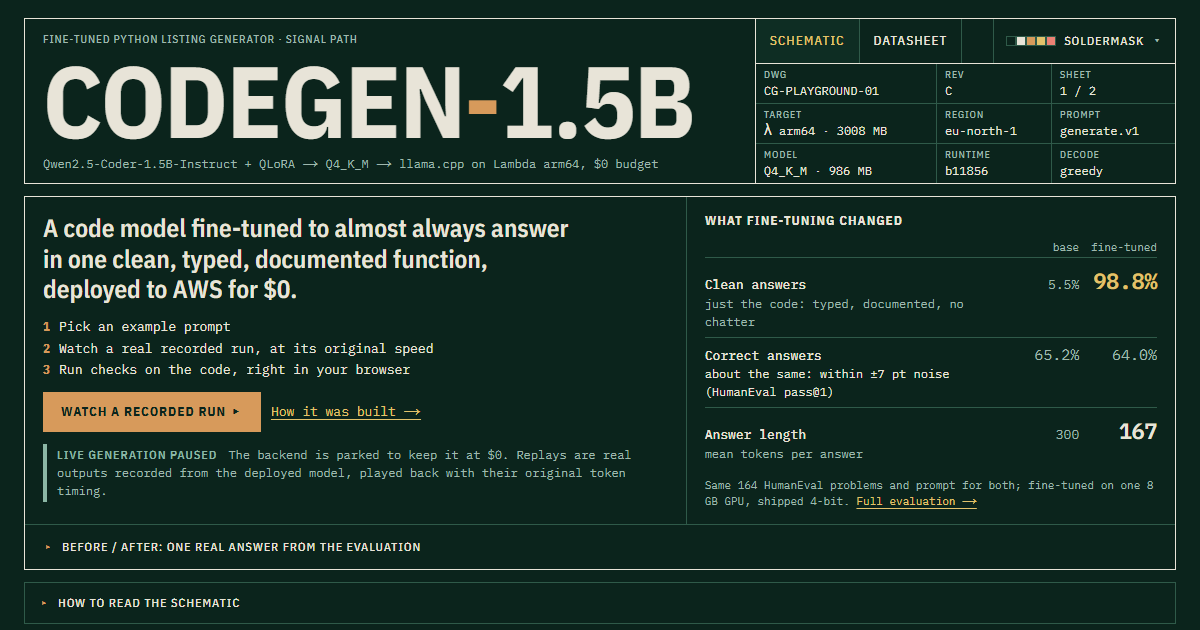
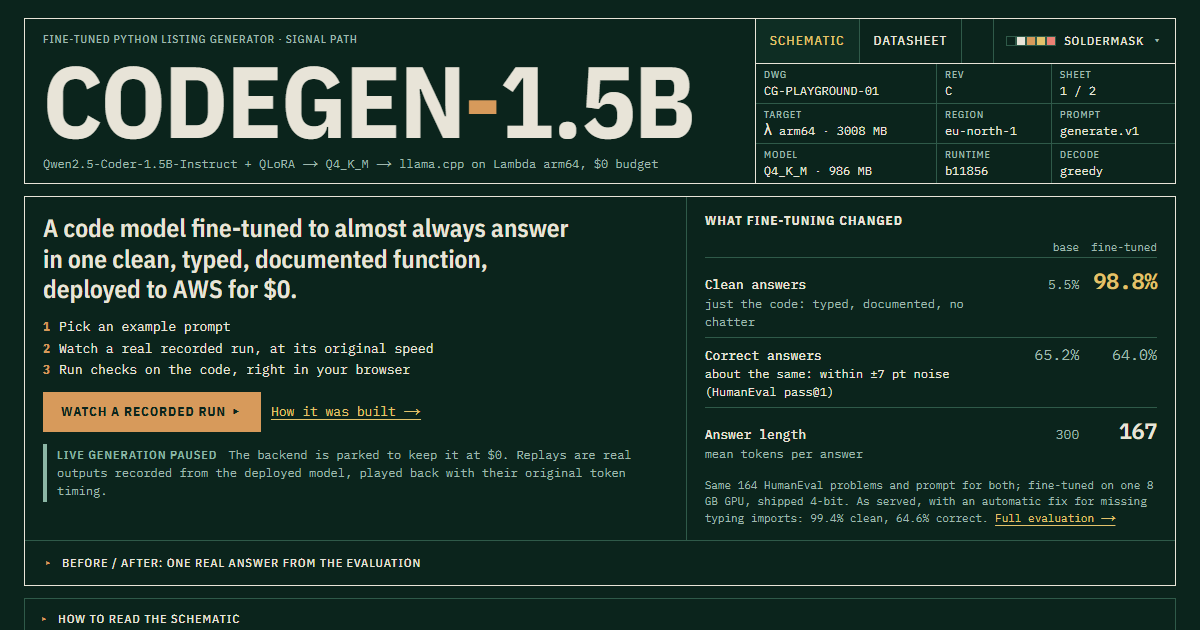
Try it live: opt-in live run next to the replay button; replay stays the default
- The page opens in replay mode even with the backend on, and a first visit
  plays a recording; a live request only happens when the visitor presses Try it
  live. The button appears only while status.json says live, so this changes
  nothing while the backend is paused.
- At 0 runs left (or once the shared budget is spent) the button becomes the
  reset time, next to the replay button.
- Tests: live opt-in sends exactly one request, no button while paused, axe on
  the live-state intro, the import fix shown and used by the test bench, first
  visit with the backend on plays a recording. live.spec uses the button.

Changed region(s): [[0.0308, 0.8444, 0.9867, 0.9952], [0.5858, 0.7841, 0.9558, 0.8444]]

diff --git a/frontend/tests/e2e/livemock.spec.ts b/frontend/tests/e2e/livemock.spec.ts
@@ -1,3 +1,4 @@
+import AxeBuilder from "@axe-core/playwright";
 import { readFileSync } from "node:fs";
 import { expect, test, type Page, type Route } from "./fixtures";
 
@@ -20,7 +21,9 @@ async function live(page: Page, generate: (r: Route) => unknown) {
   await page.route("**/status.json", (r) => r.fulfill({ contentType: "application/json", body: '{"live": true, "since": "x", "note": "live"}' }));
   await page.route("**/generate", (r) => (r.request().method() === "OPTIONS" ? r.fulfill({ status: 204, headers: cors(r) }) : generate(r)));
   await page.goto("/");
-  await expect(page.getByRole("button", { name: "Live", exact: true })).toHaveAttribute("aria-pressed", "true");
+  // replay stays the default even with the backend on; live is the visitor's choice
+  await expect(page.getByRole("button", { name: "Replay", exact: true })).toHaveAttribute("aria-pressed", "true");
+  await page.getByRole("button", { name: "Live", exact: true }).click();
 }
 const run = (page: Page) => page.locator("#controls").getByRole("button", { name: "Run ▸", exact: true });
 
@@ -67,9 +70,61 @@ test("quota used up: Run is replaced in place by the reset time and a replay but
   await expect(blocked).toBeInViewport();
   await expect(run(page)).toHaveCount(0);
   await expect(page.locator(".banner[role=alert]")).toHaveCount(0);
-  // still blocked after a reload (the count is remembered for the UTC day)
+  // the intro's "Try it live" becomes the same reset time, next to its replay button
+  await expect(page.locator(".intro")).toContainText(/No live runs left today · resets in/);
+  await expect(page.getByRole("button", { name: "Try it live ▸" })).toHaveCount(0);
+  // still blocked after a reload (the count is remembered for the UTC day); the page reopens in replay mode, so the
+  // reset time stands where "Try it live" was, next to the intro's replay button
   await page.reload();
-  await expect(page.locator("#controls .blocked")).toBeVisible();
-  await page.locator("#controls .blocked").getByRole("button", { name: "Watch a recorded run ▸" }).click();
+  await expect(page.locator(".intro")).toContainText(/No live runs left today · resets in/);
+  await expect(page.getByRole("button", { name: "Try it live ▸" })).toHaveCount(0);
+  await page.locator(".intro").getByRole("button", { name: "Watch a recorded run ▸" }).click();
   await expect(page.getByLabel("Generated code")).toContainText("def fibonacci", { timeout: 15_000 });
+});
+
+test("Try it live: replay stays the default, the button sends one real request", async ({ page }) => {
+  let calls = 0;
+  await page.route("**/status.json", (r) => r.fulfill({ contentType: "application/json", body: '{"live": true, "since": "x", "note": "live"}' }));
+  await page.route("**/generate", (r) => (r.request().method() === "OPTIONS" ? r.fulfill({ status: 204, headers: cors(r) }) : (calls++, stream(r))));
+  await page.goto("/");
+  await expect(page.getByRole("button", { name: "Replay", exact: true })).toHaveAttribute("aria-pressed", "true");
+  await expect(page.getByText("Live generation is on")).toBeVisible();
+  for (const theme of ["soldermask", "datasheet"]) {  // the live-only intro controls, audited in a dark and the light theme
+    await page.evaluate((t) => document.documentElement.setAttribute("data-theme", t), theme);
+    const r = await new AxeBuilder({ page }).include(".intro").withTags(["wcag2a", "wcag2aa", "wcag21aa", "wcag22aa"]).analyze();
+    expect(r.violations.map((v) => `${theme} ${v.id}: ${v.nodes[0]?.target}`)).toEqual([]);
+  }
+  await page.waitForTimeout(500);
+  expect(calls).toBe(0); // nothing live happens by itself
+  await page.getByRole("button", { name: "Try it live ▸" }).click();
+  await expect(page.getByLabel("Generated code")).toContainText("def fibonacci", { timeout: 15_000 });
+  await expect(page.getByText("clean EOS")).toBeVisible({ timeout: 15_000 });
+  expect(calls).toBe(1);
+  await expect(page.getByRole("button", { name: "Live", exact: true })).toHaveAttribute("aria-pressed", "true");
+});
+
+test("paused backend: no Try it live button at all", async ({ page }) => {
+  await page.route("**/status.json", (r) => r.fulfill({ contentType: "application/json", body: '{"live": false, "since": "x", "note": "paused"}' }));
+  await page.goto("/");
+  await expect(page.getByText("Live generation paused")).toBeVisible();
+  await expect(page.getByRole("button", { name: "Try it live ▸" })).toHaveCount(0);
+});
+
+test("a typing name used but not imported: the import is added, marked, and used by the test bench", async ({ page }, info) => {
+  test.skip(info.project.name !== "desktop");
+  const answer = "```python\nfrom typing import List\n\n\ndef transpose(matrix: Tuple[Tuple[int, ...], ...]) -> List[Tuple[int, ...]]:\n"
+    + "    \"\"\"Transpose a matrix.\"\"\"\n    return list(zip(*matrix))\n```";
+  const sse = answer.split(/(?<=\n)/).map((t) => `event: token\ndata: ${JSON.stringify({ t })}\n\n`).join("")
+    + `event: done\ndata: ${JSON.stringify({ finish_reason: "stop", tokens: 40, prompt_tokens: 20, tok_s: 15, ttft_s: 0.4, prompt_version: "generate.v1", remaining: 4 })}\n\n`;
+  await live(page, (r) => r.fulfill({ status: 200, headers: { ...cors(r), "content-type": "text/event-stream" }, body: sse }));
+  await page.locator("#spec").fill("Write a function that transposes a matrix given as a tuple of tuples.");
+  await run(page).click();
+  const code = page.getByLabel("Generated code");
+  await expect(code).toContainText("from typing import List, Tuple", { timeout: 15_000 });
+  await expect(page.locator(".listing-foot")).toContainText("+ L1 import added after generation: Tuple used in a type hint but not imported");
+  await expect(page.locator(".code .gutter")).toContainText("+1");
+  // the test bench runs the served code: it defines transpose instead of failing with NameError
+  await page.getByRole("button", { name: "Run code ▸" }).click();
+  await expect(page.locator(".bench-sum")).not.toContainText("NameError", { timeout: 90_000 });
+  await expect(page.locator(".bench-sum")).toContainText(/transpose/, { timeout: 90_000 });
 });

diff --git a/frontend/src/components/Intro.tsx b/frontend/src/components/Intro.tsx
@@ -1,6 +1,6 @@
 import Link from "next/link";
 import { COMPARE } from "@/data/compare";
-import { EVAL } from "@/data/facts";
+import { BUDGET, EVAL } from "@/data/facts";
 import type { SiteStatus } from "@/lib/status";
 
 // The on-ramp: what this is, what to do, and the result, in plain words. The schematic below is the detailed view.
@@ -13,9 +13,19 @@ const FAILURE: Record<string, string> = {
   missing_return_hint: "no return type",
 };
 
-type Props = { status: SiteStatus; playing: boolean; onWatch: () => void };
+type Props = {
+  status: SiteStatus;
+  playing: boolean;
+  onWatch: () => void;
+  /** backend is on (status.json live): offer the opt-in live run */
+  live: boolean;
+  /** live cannot succeed today: shown instead of "Try it live", next to the replay button */
+  liveBlocked: string | null;
+  remaining: number | null;
+  onTryLive: () => void;
+};
 
-export function Intro({ status, playing, onWatch }: Props) {
+export function Intro({ status, playing, onWatch, live, liveBlocked, remaining, onTryLive }: Props) {
   return (
     <section className="intro" aria-labelledby="intro-h">
       <div className="intro-main">
@@ -32,8 +42,18 @@ export function Intro({ status, playing, onWatch }: Props) {
           <button type="button" className="btn-run silk" onClick={onWatch}>
             {playing ? "Playing · see output ↓" : "Watch a recorded run ▸"}
           </button>
+          {live && (liveBlocked && !playing
+            ? <span className="tp intro-blocked" role="status">{liveBlocked}</span>
+            : <button type="button" className="btn-ghost btn-live silk" onClick={onTryLive} disabled={playing}>Try it live ▸</button>)}
           <Link href="/notes/">How it was built →</Link>
         </div>
+        {live && !liveBlocked && (
+          <p className="intro-status">
+            <strong className="silk au">Live generation is on</strong>{" "}
+            Try it live sends the prompt to the real model on AWS Lambda
+            ({remaining ?? BUDGET.anonPerIp} of {BUDGET.anonPerIp} live runs left today; a cold start can add 5–10 s). Replays cost nothing.
+          </p>
+        )}
         {status.live === false && (
           <p className="intro-status" role="status">
             <strong className="silk sig2">{status.note === "circuit breaker" ? "Paused by circuit breaker" : "Live generation paused"}</strong>{" "}
@@ -53,11 +73,11 @@ export function Intro({ status, playing, onWatch }: Props) {
           <tbody>
             <tr>
               <th scope="row">Clean answers<small>just the code: typed, documented, no chatter</small></th>
-              <td>{EVAL.base.formatClean}%</td><td className="au big">{EVAL.formatClean}%</td>
+              <td>{EVAL.base.formatClean}%</td><td className="au big">{EVAL.model.formatClean}%</td>
             </tr>
             <tr className="flat">
               <th scope="row">Correct answers<small className="said">about the same: within ±{EVAL.noisePt} pt noise (HumanEval pass@1)</small></th>
-              <td>{EVAL.base.humaneval}%</td><td>{EVAL.humaneval.toFixed(1)}%</td>
+              <td>{EVAL.base.humaneval}%</td><td>{EVAL.model.humaneval.toFixed(1)}%</td>
             </tr>
             <tr>
               <th scope="row">Answer length<small>mean tokens per answer</small></th>
@@ -66,7 +86,8 @@ export function Intro({ status, playing, onWatch }: Props) {
           </tbody>
         </table>
         <p className="dim intro-fine">
-          Same {EVAL.tasks} HumanEval problems and prompt for both; fine-tuned on one 8 GB GPU, shipped 4-bit.{" "}
+          Same {EVAL.tasks} HumanEval problems and prompt for both; fine-tuned on one 8 GB GPU, shipped 4-bit. As served,
+          with an automatic fix for missing typing imports: {EVAL.formatClean}% clean, {EVAL.humaneval}% correct.{" "}
           <Link href="/notes/#eval">Full evaluation →</Link>
         </p>
       </div>

diff --git a/frontend/src/pages/index.tsx b/frontend/src/pages/index.tsx
@@ -21,7 +21,9 @@ const QUOTA_CODES = new Set(["daily_limit", "daily_capacity"]);
 export default function Playground() {
   const [run, dispatch] = useReducer(runReducer, initialRun);
   const [status, setStatus] = useState<SiteStatus>(UNKNOWN);
-  const [mode, setMode] = useState<Mode>("live");
+  // Replay is the default experience; a live request is always the visitor's explicit choice ("Try it live").
+  const [mode, setMode] = useState<Mode>("replay");
+  const [statusLoaded, setStatusLoaded] = useState(false);
   const [prompt, setPrompt] = useState(EXAMPLES[0]);
   const [replays, setReplays] = useState<ReplayIndexEntry[]>([]);
   const [replayId, setReplayId] = useState<string | null>(null);
@@ -41,6 +43,7 @@ export default function Playground() {
     setRemaining(loadRemaining());
     fetchStatus().then((s) => {
       setStatus(s);
+      setStatusLoaded(true);
       if (s.live === false) {
         // The live controls are about to be replaced; don't drop a keyboard user's focus on <body>.
         const hadFocus = document.getElementById("controls")?.contains(document.activeElement);
@@ -139,15 +142,15 @@ export default function Playground() {
     };
   }, [replayId, record]);
 
-  // First visit only: play the selected recording once, unasked, when the page settles in replay mode. Never a live
-  // run (that spends quota), never with reduced motion, never if the visitor has already started something.
+  // First visit only: play the selected recording once, unasked, once the backend status is known (live or not).
+  // Never a live run (that spends quota), never with reduced motion, never if the visitor has already started something.
   const autoplayed = useRef(false);
   useEffect(() => {
-    if (autoplayed.current || mode !== "replay" || status.live !== false || !replayId || run.phase !== "idle") return;
+    if (autoplayed.current || !statusLoaded || mode !== "replay" || !replayId || run.phase !== "idle") return;
     autoplayed.current = true;
     if (window.matchMedia("(prefers-reduced-motion: reduce)").matches || !claimFirstVisit()) return;
     runReplay();
-  }, [mode, status.live, replayId, run.phase, runReplay]);
+  }, [statusLoaded, mode, replayId, run.phase, runReplay]);
 
   // Bring the output into view if it is below the fold: the readouts on the wide layout, the listing once the
   // layout stacks (there the readouts are far from the code that is moving).
@@ -174,6 +177,14 @@ export default function Playground() {
     : lastCode === "daily_capacity" ? `Today's shared live budget is spent · resets in ${fmtDuration(secondsToUtcMidnight(now))}`
     : null;
 
+  // The opt-in: a real request with the prompt in U1, spending one of the visitor's live runs.
+  const tryLive = () => {
+    if (active(run) || liveBlocked) return;
+    setMode("live");
+    runLive();
+    showOutput();
+  };
+
   const onRun = () => (mode === "live" ? runLive() : runReplay());
   const retryIn = retryAt !== null ? Math.max(0, Math.ceil((retryAt - now) / 1000)) : null;
   const err: UiError | null = run.phase === "error" ? run.error : null;
@@ -186,7 +197,8 @@ export default function Playground() {
       <main className="page">
         <Masthead page="schematic" />
 
-        <Intro status={status} playing={active(run)} onWatch={watch} />
+        <Intro status={status} playing={active(run)} onWatch={watch}
+          live={status.live === true} liveBlocked={liveBlocked} remaining={remaining} onTryLive={tryLive} />
 
         {err && !QUOTA_CODES.has(err.code) && (
           <div className="banner" role="alert">

diff --git a/frontend/tests/e2e/live.spec.ts b/frontend/tests/e2e/live.spec.ts
@@ -9,8 +9,9 @@ test("live run from the deployed origin: streams, or shows a coded refusal", asy
   const errors: string[] = [];
   page.on("console", (m) => { if (m.type() === "error" && !/status of 429/.test(m.text())) errors.push(m.text()); });
   await page.goto("/");
-  await expect(page.getByRole("button", { name: "Live", exact: true })).toHaveAttribute("aria-pressed", "true");
-  await page.getByRole("button", { name: "Run ▸" }).click();
+  // replay is the default; the live request is the visitor's opt-in
+  await expect(page.getByRole("button", { name: "Replay", exact: true })).toHaveAttribute("aria-pressed", "true");
+  await page.getByRole("button", { name: "Try it live ▸" }).click();
   const code = page.getByLabel("Generated code");
   const refusal = page.locator(".banner[role=alert]");
   await expect(code.or(refusal)).toBeVisible({ timeout: 30_000 });

diff --git a/frontend/tests/e2e/intro.spec.ts b/frontend/tests/e2e/intro.spec.ts
@@ -125,3 +125,14 @@ test("link preview: description, Open Graph card and its image", async ({ page, 
   expect(r.status()).toBe(200);
   expect(r.headers()["content-type"]).toBe("image/png");
 });
+
+test("first visit with the backend on: a recording plays, nothing is sent live", async ({ page }, info) => {
+  test.skip(info.project.name !== "desktop");
+  let live = 0;
+  await page.route("**/status.json", (r) => r.fulfill({ contentType: "application/json", body: '{"live": true, "since": "x", "note": "live"}' }));
+  await page.route("**/generate", (r) => { live++; return r.abort(); });
+  await page.goto("/");
+  await expect(page.getByLabel("Generated code")).toContainText("def fibonacci", { timeout: 15_000 });
+  await expect(page.getByText("Recorded", { exact: false }).first()).toBeVisible();
+  expect(live).toBe(0);
+});

diff --git a/frontend/src/styles/globals.css b/frontend/src/styles/globals.css
@@ -298,3 +298,5 @@ kbd { font-family: inherit; border: 1px solid var(--line); padding: 0 4px; font-
 .runrow.blocked { gap: 8px 14px; }
 .runrow.blocked > span { font-size: 12px; }
 .empty .waking { margin: 0; max-width: 60ch; color: var(--au); }
+.btn-live { min-height: 40px; font-size: 13px; font-weight: 700; padding: 0 16px; }
+.intro-blocked { font-size: 12px; max-width: 32ch; }

diff --git a/docs/runbook.md b/docs/runbook.md
@@ -14,6 +14,9 @@ curl.exe -m 150 https://sug6pvql5qkkk3tm7udviuyoc40jwvys.lambda-url.eu-north-1.o
 infra\scripts\killswitch.ps1 on                     # 4. afterwards: both layers back on, status.json -> paused
 ```
 
+- With the backend on, the site still opens in replay mode (and plays a recording on a first visit). A live request
+  happens only when a visitor presses **Try it live**, which appears in the intro only while status.json says live
+  and becomes the reset time once that visitor's runs for the day are used.
 - **Step 2 is not optional.** If the function is cold, the first visitor waits 4-9 s for the first token. `{"ready": true}`
   means warm. It works while the kill switch is ON, so it can come first.
 - **Reload pages that were already open.** The site reads status.json once on load; an open tab stays in replay mode.
@@ -141,6 +144,10 @@ against the deployed site, from a clean browser. `cd frontend; npx playwright te
 - First visit: the intro plays the selected recording once, unasked, when the page settles in replay mode (never a live
   run, never with reduced motion; marked by `cg.visited` in localStorage). The e2e specs import `tests/e2e/fixtures.ts`,
   which marks every test as a returning visitor; `intro.spec.ts` tests the first visit itself.
+- Served code: when a finished answer uses a typing name in a type hint without importing it, `src/lib/typingFix.ts`
+  adds the import before the code is shown, copied, saved or run, and the listing marks the line (`+`). It is the
+  only edit to model output, applied the same way to live runs and replays; recordings stay unedited. Its Python twin
+  (`training/data_pipeline/typing_fix.py`) scores the evals "as served"; both pass `typing_fix_cases.json`.
 - The before/after comparison (`src/data/compare.ts`) is one real pair from the HumanEval records, copied verbatim.
 - Plain-language block subtitles and the "How to read the schematic" key both come from `src/data/key.ts`.
 - Link previews: Open Graph / Twitter tags in `_document.tsx`, image `public/og.png` (1200x630, a screenshot of the
